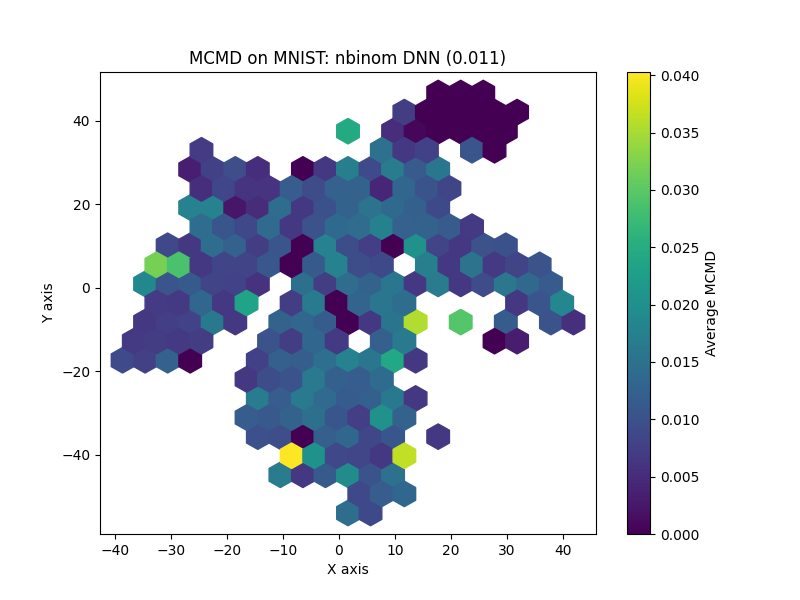
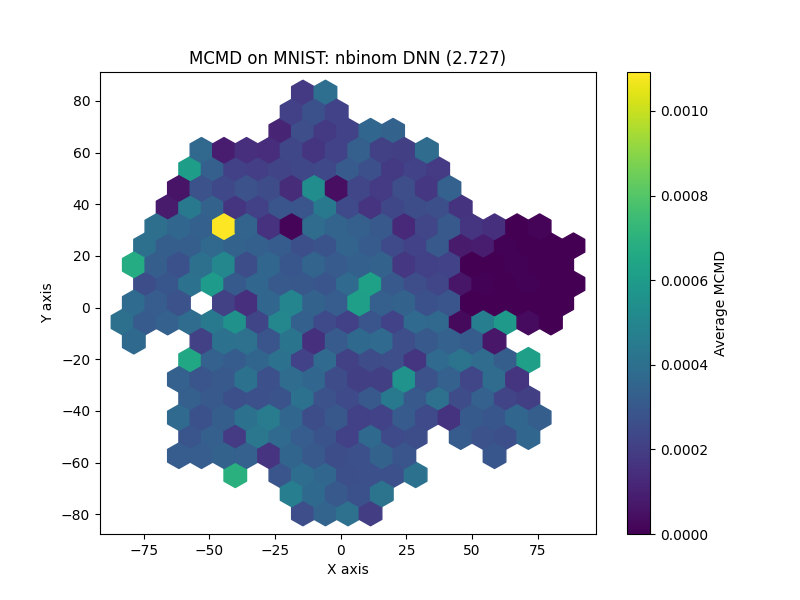
yaml config, relative paths

diff --git a/probcal/experiments/mnist_calibration.py b/probcal/experiments/mnist_calibration.py
@@ -1,6 +1,8 @@
 import torch
 import numpy as np
 from functools import partial
+import yaml
+import pprint
 
 import argparse
 from sklearn.manifold import TSNE
@@ -15,6 +17,7 @@ from probcal.evaluation.plotting import plot_hex_bin_mcmd, get_scatter_plot_by_c
 
 from probcal.enums import DatasetType, ImageDatasetName, HeadType
 
+
 MODELS = [member.value for member in HeadType]
 
 def init_y_hat_array(model: str, n: int) -> torch.Tensor:
@@ -25,8 +28,10 @@ def init_y_hat_array(model: str, n: int) -> torch.Tensor:
     return y_hat_init
 
 
-def main(model_type: str, num_samples: int):
-    print(f"Executing MNIST Experiment: {model_type}")
+def main(cfg: dict):
+    print(f"Executing MNIST Experiment:")
+    pprint.pprint(cfg)
+
     datamodule = get_datamodule(
         DatasetType.IMAGE,
         ImageDatasetName.MNIST,
@@ -35,19 +40,19 @@ def main(model_type: str, num_samples: int):
     datamodule.setup("predict")
     test_loader = datamodule.test_dataloader()
 
-    cfg = TrainingConfig.from_yaml(f"../../configs/mnist_{model_type}_cfg.yaml")
-    model = get_model(cfg)
+    model_cfg = TrainingConfig.from_yaml(f"configs/mnist_{cfg['model_type']}_cfg.yaml")
+    model = get_model(model_cfg)
 
     state_dict = torch.load(
-        f"/Users/porterjenkins/code/probcal/weights/mnist_{model_type}/best_mae_{model_type}.pt",
+        f"weights/mnist_{cfg['model_type']}/best_mae_{cfg['model_type']}.pt",
         map_location='cpu'
     )
     model.load_state_dict(state_dict)
 
-    num_examples = 1000
+    num_examples = cfg['data']['test_examples']
     X = np.zeros((num_examples, 28*28))
     Y = np.zeros((num_examples, 1))
-    Y_hat = init_y_hat_array(model_type, num_examples)
+    Y_hat = init_y_hat_array(cfg['model_type'], num_examples)
 
     for i, (x, y) in enumerate(test_loader):
         if i == num_examples:
@@ -58,60 +63,55 @@ def main(model_type: str, num_samples: int):
             y_hat = model._predict_impl(x).squeeze()
         Y_hat[i] = y_hat
 
-    sampler = SAMPLERS[model_type](Y_hat)
+    sampler = SAMPLERS[cfg['model_type']](Y_hat)
 
-    y_prime = sampler.sample(m=num_samples).reshape(-1, 1)
-    print(np.mean(y_prime), np.std(y_prime))
-    x_kernel = partial(rbf_kernel, gamma=5.0)
-    y_kernel = partial(rbf_kernel, gamma=0.5)
+    y_prime = sampler.sample(m=cfg['data']['n_draws']).reshape(-1, 1)
+    x_kernel = partial(rbf_kernel, gamma=cfg['hyperparams']['x_kernel_gamma'])
+    y_kernel = partial(rbf_kernel, gamma=cfg['hyperparams']['y_kernel_gamma'])
     print("Computing TSNE")
-    X_reduced = TSNE(n_components=2, random_state=1990).fit_transform(X)
 
-    get_scatter_plot_by_cls(
-        x=X_reduced[:, 0],
-        y=X_reduced[:, 1],
-        c=Y.flatten(),
-        fpath="../figures/artifacts/mnist_tsne.png",
-        title="MNIST TSNE"
-    )
+    X_reduced = TSNE(
+        n_components=cfg['embedding']['n_components'],
+        random_state=1990).fit_transform(X)
 
     print('Computing MCMD')
     mcmd_vals = compute_mcmd(
                 grid=X_reduced,
                 x=X_reduced,
                 y=Y,
-                x_prime=np.tile(X_reduced, (num_samples, 1)),
+                x_prime=np.tile(X_reduced, (cfg['data']['n_draws'], 1)),
                 y_prime=y_prime,
                 x_kernel=x_kernel,
                 y_kernel=y_kernel,
             )
-    print("Y Prime:")
-    print(y_prime.flatten().round(1))
-    print("Y True:")
-    print(Y.flatten())
-    print("MCMD Values:")
-    print(mcmd_vals.round(3))
     mean_mcmd = np.mean(mcmd_vals)
-    print(mean_mcmd)
     total_mcmd = np.sum(mcmd_vals)
-    print(total_mcmd)
+    print("Average MCMD: {:.4f}".format(mean_mcmd))
+    print("Total MCMD: {:.4f}".format(total_mcmd))
 
-    plot_hex_bin_mcmd(
-        x=X_reduced[:, 0],
-        y=X_reduced[:, 1],
-        c=mcmd_vals,
-        title="MCMD on MNIST: {} DNN ({:.3f})".format(model_type, mean_mcmd),
-        grid_size=20,
-        fpath=f"../figures/artifacts/mnist_{model_type}_mcmd.png"
-    )
+    if cfg['plot']['gen_fig']:
+
+        if cfg['embedding']['n_components'] != 2:
+            raise ValueError("Can only plot 2D embeddings.")
+
+        get_scatter_plot_by_cls(
+            x=X_reduced[:, 0],
+            y=X_reduced[:, 1],
+            c=Y.flatten(),
+            fpath="probcal/figures/artifacts/mnist_tsne.png",
+            title="MNIST TSNE"
+        )
+
+        plot_hex_bin_mcmd(
+            x=X_reduced[:, 0],
+            y=X_reduced[:, 1],
+            c=mcmd_vals,
+            title="MCMD on MNIST: {} DNN ({:.3f})".format(cfg['model_type'], total_mcmd),
+            grid_size=cfg['plot']['grid_size'],
+            fpath=f"probcal/figures/artifacts/mnist_{cfg['model_type']}_mcmd.png",
+            crange=(cfg['plot']['color_min'], cfg['plot']['color_max'])
+        )
 
 if __name__ == "__main__":
-    # TODO: consider adding experiment config instead of cli args
-    parser = argparse.ArgumentParser(description="Run the MCMD experiment on MNIST")
-    parser.add_argument("--model", type=str, choices=MODELS, help=f"must be in {MODELS}")
-    parser.add_argument("--num-samples", type=int, default=10, help=f"number of predictive draws")
-    args = parser.parse_args()
-    main(
-        model_type=args.model,
-        num_samples=args.num_samples
-    )
+    cfg = yaml.safe_load(open("probcal/experiments/mnist_calib_cfg.yaml", "r"))
+    main(cfg)

diff --git a/probcal/evaluation/plotting.py b/probcal/evaluation/plotting.py
@@ -112,11 +112,31 @@ def plot_hex_bin_mcmd(
         c: np.ndarray,
         grid_size: Optional[int] = 25,
         title: Optional[str] = "Hexbin plot",
-        fpath: Optional[str] = None
+        fpath: Optional[str] = None,
+        crange: Optional[tuple[float, float]] = None
 ):
+    """
+        Generates a hexbin plot, which is a two-dimensional histogram with hexagonal bins, from three numpy arrays representing x and y coordinates and a value to aggregate.
+
+        Args:
+            x (np.ndarray): The x coordinates for each point.
+            y (np.ndarray): The y coordinates for each point.
+            c (np.ndarray): The values to aggregate over the hexagonal bins. The color of each hexagon is determined by the average value of `c` in that bin.
+            grid_size (Optional[int], optional): The number of hexagons across the x-axis of the plot. Defaults to 25.
+            title (Optional[str], optional): The title of the plot. Defaults to "Hexbin plot".
+            fpath (Optional[str], optional): The file path to save the plot to. If None, the plot is displayed using plt.show(). Defaults to None.
+            crange (Optional[tuple[float, float]], optional): The range of values to normalize the colors of the hexagons. Defaults to None, which automatically scales to the min and max of `c`.
+
+        Returns:
+            None: This function does not return a value but generates and displays or saves a hexbin plot.
+        """
+
     # Create the hexbin plot
     plt.figure(figsize=(8, 6))
-    hb = plt.hexbin(x, y, C=c, gridsize=grid_size, reduce_C_function=np.mean, cmap='viridis')
+    if crange is not None:
+        hb = plt.hexbin(x, y, C=c, gridsize=grid_size, reduce_C_function=np.mean, cmap='viridis', vmin=crange[0], vmax=crange[1])
+    else:
+        hb = plt.hexbin(x, y, C=c, gridsize=grid_size, reduce_C_function=np.mean, cmap='viridis')
 
     # Add a color bar
     cb = plt.colorbar(hb)

diff --git a/probcal/utils/experiment_utils.py b/probcal/utils/experiment_utils.py
@@ -79,14 +79,14 @@ def get_datamodule(
     elif dataset_type == DatasetType.IMAGE:
         if dataset_path_or_spec == ImageDatasetName.MNIST:
             return MNISTDataModule(
-                root_dir="../../data/mnist",
+                root_dir="data/mnist",
                 batch_size=batch_size,
                 num_workers=0,
                 persistent_workers=False,
             )
         elif dataset_path_or_spec == ImageDatasetName.COCO_PEOPLE:
             return COCOPeopleDataModule(
-                root_dir="../../data/coco_people",
+                root_dir="data/coco_people",
                 batch_size=batch_size,
                 num_workers=16,
                 persistent_workers=True,
